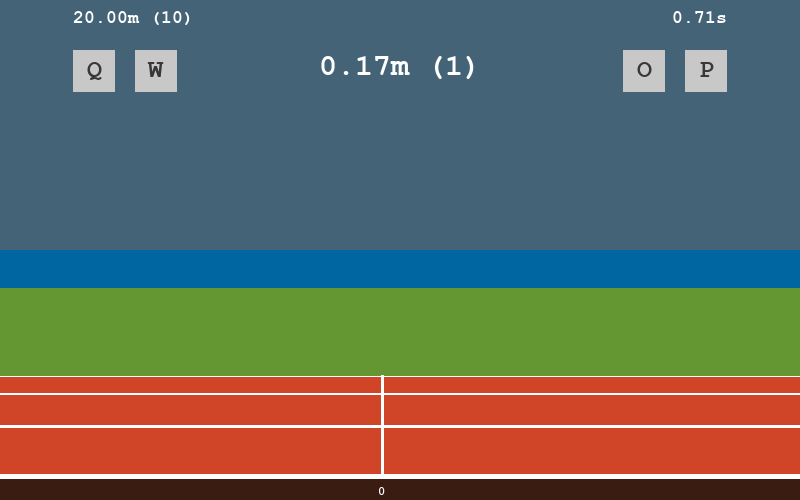
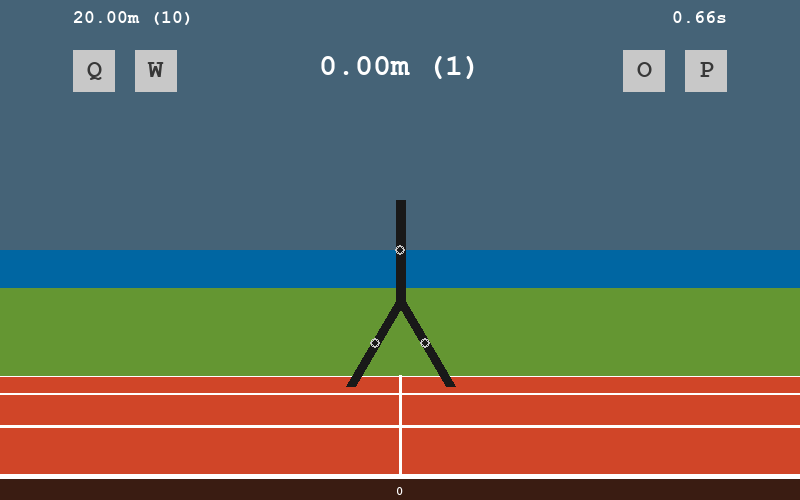
added normal force

diff --git a/environment_qwop.py b/environment_qwop.py
@@ -40,7 +40,7 @@ class Environment:
         ##################################
         self.state_size = 18
         self.action_size = 2
-        self.TIMESTEP = 0.1 # [s]
+        self.TIMESTEP = 0.001 # [s]
         self.target_reward = 1.
         self.num_frames = 100 # total animation is cut into this many frames
         self.randomize = False # whether or not to randomize the state & target location
@@ -51,6 +51,9 @@ class Environment:
         self.phi1 = 30*np.pi/180
         self.phi2 = -30*np.pi/180
         
+        #friction properties
+        self.FLOOR_MU = 0.3
+        self.FLOOR_SPRING_STIFFNESS = 1000 #[N/m]
         
         # To be removed
         self.lower_action_bound = np.array([-0.1, -0.1]) # [Nm]
@@ -239,7 +242,7 @@ class Environment:
         fN2 = 0.
         
         # Packing up the parameters the equations of motion need
-        parameters = np.array([self.SEGMENT_MASS[0],self.SEGMENT_MASS[1],self.SEGMENT_MASS[2], self.SEGMENT_ETA_LENGTH[0],self.SEGMENT_ETA_LENGTH[1],self.SEGMENT_ETA_LENGTH[2], self.SEGMENT_GAMMA_LENGTH[0],self.SEGMENT_GAMMA_LENGTH[1],self.SEGMENT_GAMMA_LENGTH[2], self.SEGMENT_MOMINERT[0], self.SEGMENT_MOMINERT[1], self.SEGMENT_MOMINERT[2], self.g, fF1, fF2, self.phi1, self.phi2, fN1, fN2, self.HIP_SPRING_STIFFNESS], dtype = 'float64')
+        parameters = np.array([self.SEGMENT_MASS[0],self.SEGMENT_MASS[1],self.SEGMENT_MASS[2], self.SEGMENT_LENGTH[0],self.SEGMENT_LENGTH[1],self.SEGMENT_LENGTH[2],self.SEGMENT_ETA_LENGTH[0],self.SEGMENT_ETA_LENGTH[1],self.SEGMENT_ETA_LENGTH[2], self.SEGMENT_GAMMA_LENGTH[0],self.SEGMENT_GAMMA_LENGTH[1],self.SEGMENT_GAMMA_LENGTH[2], self.SEGMENT_MOMINERT[0], self.SEGMENT_MOMINERT[1], self.SEGMENT_MOMINERT[2], self.g, fF1, fF2, self.phi1, self.phi2, fN1, fN2, self.HIP_SPRING_STIFFNESS, self.FLOOR_SPRING_STIFFNESS, self.FLOOR_MU], dtype = 'float64')
 
         # Integrating forward one time step. 
         # Returns initial condition on first row then next timestep on the next row
@@ -320,7 +323,7 @@ def equations_of_motion(state, t, parameters):
     x, y, theta, x1, y1, theta1, x2, y2, theta2, xdot, ydot, thetadot, x1dot, y1dot, theta1dot, x2dot, y2dot, theta2dot = state
     
     # Unpacking parameters
-    m, m1, m2, eta, eta1, eta2, gamma, gamma1, gamma2, I, I1, I2, g, fF1, fF2, phi1, phi2, fN1, fN2, HIP_SPRING_STIFFNESS = parameters 
+    m, m1, m2, l, l1, l2, eta, eta1, eta2, gamma, gamma1, gamma2, I, I1, I2, g, fF1, fF2, phi1, phi2, fN1, fN2, HIP_SPRING_STIFFNESS, FLOOR_SPRING_STIFFNESS, FLOOR_MU  = parameters 
     
     first_derivatives = np.array([xdot, ydot, thetadot, x1dot, y1dot, theta1dot, x2dot, y2dot, theta2dot])
 
@@ -338,14 +341,16 @@ def equations_of_motion(state, t, parameters):
     
     # C matrix
     C = np.matrix([[fF1 + fF2],
-                   [fN1 + fN2 - (m + m1 + m2)*g],
+                   [np.maximum(0,-FLOOR_SPRING_STIFFNESS*(y-eta*np.cos(theta)-l1*np.cos(theta + theta1))) + np.maximum(0,-FLOOR_SPRING_STIFFNESS*(y-eta*np.cos(theta)-l2*np.cos(theta + theta2))) - (m + m1 + m2)*g],
                    [-HIP_SPRING_STIFFNESS*(phi1 - theta1 + phi2 - theta2) + m*g*eta*np.sin(theta)],
                    [-thetadot**2*eta*np.cos(theta) - (thetadot + theta1dot)**2*gamma1*np.cos(theta + theta1)],
                    [ thetadot**2*eta*np.sin(theta) + (thetadot + theta1dot)**2*gamma1*np.sin(theta + theta1)],
-                   [-m1*g*gamma1*np.sin(theta+theta1) + fN1*(eta1*np.sin(theta+theta1) + gamma1*np.sin(theta+theta1)) + fF1*(eta1*np.cos(theta+theta1) + gamma1*np.cos(theta + theta1)) + HIP_SPRING_STIFFNESS*(phi1 - theta1)],
-                   [-thetadot**2*eta*np.cos(theta) - (thetadot + theta2dot)**2*gamma2*np.cos(theta+theta2)],
+                   [-m1*g*gamma1*np.sin(theta + theta1) + np.maximum(0,-FLOOR_SPRING_STIFFNESS*(y-eta*np.cos(theta)-l1*np.cos(theta + theta1)))*(l1*np.sin(theta + theta1)) + fF1*(l1*np.cos(theta + theta1)) + HIP_SPRING_STIFFNESS*(phi1 - theta1)],
+                   [-thetadot**2*eta*np.cos(theta) - (thetadot + theta2dot)**2*gamma2*np.cos(theta + theta2)],
                    [ thetadot**2*eta*np.sin(theta) + (thetadot + theta2dot)**2*gamma2*np.sin(theta + theta2)],
-                   [-m2*g*gamma2*np.sin(theta + theta2) + fN2*(eta2*np.sin(theta + theta2) + gamma2*np.sin(theta + theta2)) + fF2*(eta2*np.cos(theta + theta2) + gamma2*np.cos(theta + theta2)) + HIP_SPRING_STIFFNESS*(phi2 - theta2)]])    
+                   [-m2*g*gamma2*np.sin(theta + theta2) + np.maximum(0,-FLOOR_SPRING_STIFFNESS*(y-eta*np.cos(theta)-l2*np.cos(theta + theta2)))*(l2*np.sin(theta + theta2)) + fF2*(l2*np.cos(theta + theta2)) + HIP_SPRING_STIFFNESS*(phi2 - theta2)]])    
+    #fN1 = np.maximum(0,FLOOR_SPRING_STIFFNESS*(y-eta*np.cos(theta)-l1*np.cos(theta+theta1)))
+    #fN2 = np.maximum(0,FLOOR_SPRING_STIFFNESS*(y-eta*np.cos(theta)-l2*np.cos(theta+theta2)))
     
     # Calculating angular rate derivatives
     #x3dx4d = np.array(np.linalg.inv(M)*(action.reshape(2,1) - C - friction*np.matrix([[x3],[x4]]))).squeeze() 
@@ -357,6 +362,33 @@ def equations_of_motion(state, t, parameters):
     derivatives = np.concatenate((first_derivatives, second_derivatives)) 
 
     return derivatives
+
+# Working, pre-normal force
+#    # Mass matrix
+#    M = np.matrix([#                    x                    y                                                 theta                              x1                                y1                             theta1                            x2                                y2                             theta2 
+#                   [                    m,                   0.,                                                0.,                               m1,                               0.,                            0.,                               m2,                               0.,                            0.],
+#                   [                   0.,                   m ,                                                0.,                               0.,                               m1,                            0.,                               0.,                               m2,                            0.],
+#                   [ -m*eta*np.cos(theta), -m*eta*np.sin(theta),                                                 I,                               0.,                               0.,                            0.,                               0.,                               0.,                            0.],
+#                   [                  -1.,                   0., eta*np.sin(theta) + gamma1*np.sin(theta + theta1),                               1.,                               0., gamma1*np.sin(theta + theta1),                               0.,                               0.,                            0.],
+#                   [                   0.,                  -1., eta*np.cos(theta) + gamma1*np.cos(theta + theta1),                               0.,                               1., gamma1*np.cos(theta + theta1),                               0.,                               0.,                            0.],
+#                   [                   0.,                   0.,                                                0., m1*gamma1*np.cos(theta + theta1), m1*gamma1*np.sin(theta + theta1),                            I1,                               0.,                               0.,                            0.],
+#                   [                  -1.,                   0., eta*np.sin(theta) + gamma2*np.sin(theta + theta2),                               0.,                               0.,                            0.,                               1.,                               0., gamma2*np.sin(theta + theta2)],
+#                   [                   0.,                  -1., eta*np.cos(theta) + gamma2*np.cos(theta + theta2),                               0.,                               0.,                            0.,                               0.,                               1., gamma2*np.cos(theta + theta2)],
+#                   [                   0.,                   0.,                                                0.,                               0.,                               0.,                            0., m2*gamma2*np.cos(theta + theta2), m2*gamma2*np.sin(theta + theta2),                            I2]])
+#    
+#    # C matrix
+#    C = np.matrix([[fF1 + fF2],
+#                   [fN1 + fN2 - (m + m1 + m2)*g],
+#                   [-HIP_SPRING_STIFFNESS*(phi1 - theta1 + phi2 - theta2) + m*g*eta*np.sin(theta)],
+#                   [-thetadot**2*eta*np.cos(theta) - (thetadot + theta1dot)**2*gamma1*np.cos(theta + theta1)],
+#                   [ thetadot**2*eta*np.sin(theta) + (thetadot + theta1dot)**2*gamma1*np.sin(theta + theta1)],
+#                   [-m1*g*gamma1*np.sin(theta+theta1) + fN1*(eta1*np.sin(theta+theta1) + gamma1*np.sin(theta+theta1)) + fF1*(eta1*np.cos(theta+theta1) + gamma1*np.cos(theta + theta1)) + HIP_SPRING_STIFFNESS*(phi1 - theta1)],
+#                   [-thetadot**2*eta*np.cos(theta) - (thetadot + theta2dot)**2*gamma2*np.cos(theta+theta2)],
+#                   [ thetadot**2*eta*np.sin(theta) + (thetadot + theta2dot)**2*gamma2*np.sin(theta + theta2)],
+#                   [-m2*g*gamma2*np.sin(theta + theta2) + fN2*(eta2*np.sin(theta + theta2) + gamma2*np.sin(theta + theta2)) + fF2*(eta2*np.cos(theta + theta2) + gamma2*np.cos(theta + theta2)) + HIP_SPRING_STIFFNESS*(phi2 - theta2)]])    
+#    
+
+
 
 # Mass matrix
 #    M = np.matrix([[1., 0., 0., 0., 0., 0., 0., 0., 0., 0., 0., 0., 0., 0., 0., 0., 0., 0.],

diff --git a/animator.py b/animator.py
@@ -395,7 +395,8 @@ def drawState(var,width,height):
     
     print_out = False
     frame = 0
-    max_frame = 25
+    max_frame = 1250
+    save_frame = False
     
     # -------- Main Program Loop -----------
     while running:
@@ -590,8 +591,9 @@ def drawState(var,width,height):
         
         
         #save frame to file
-        im_name = "frames/frame_%05i.png" %frame
-        pygame.image.save(screen,im_name)
+        if save_frame:
+            im_name = "frames/frame_%05i.png" %frame
+            pygame.image.save(screen,im_name)
         
         
         
